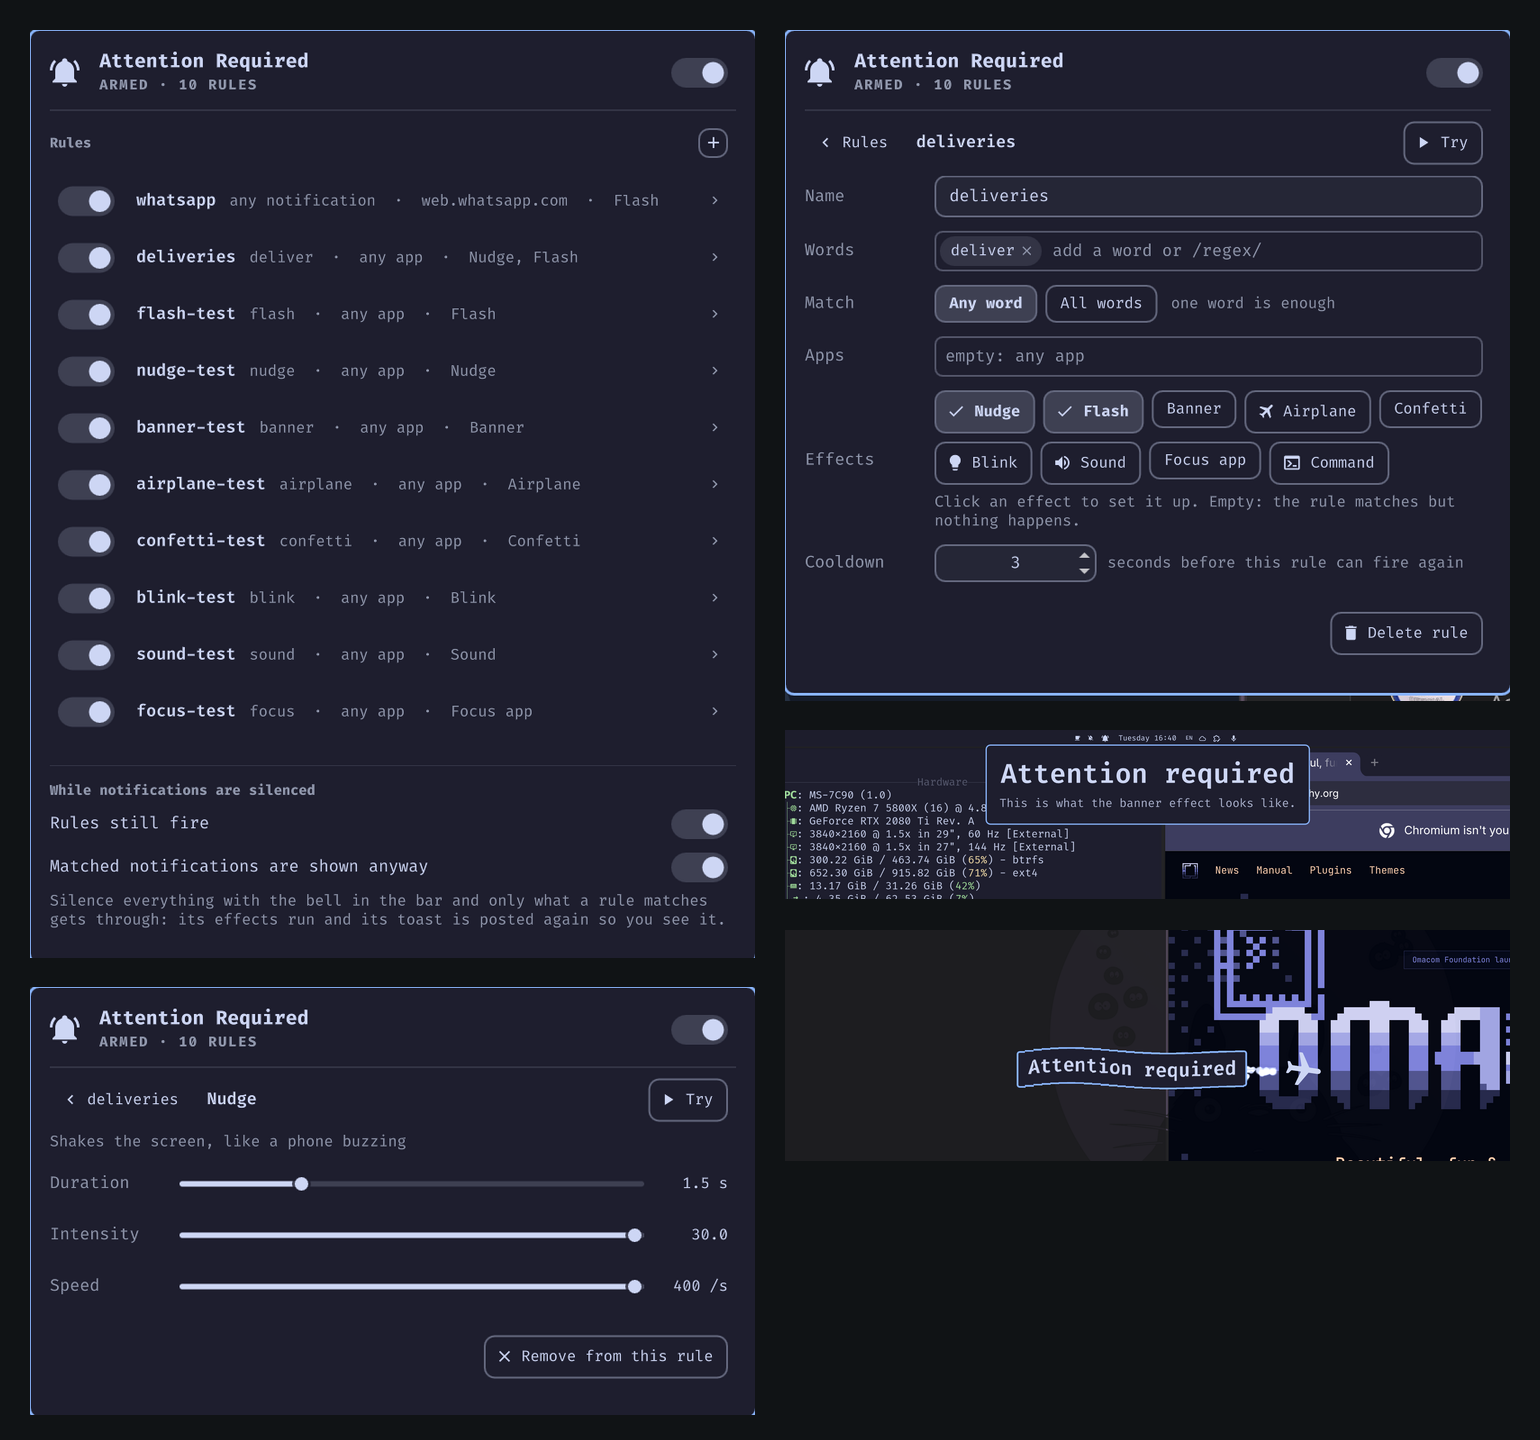
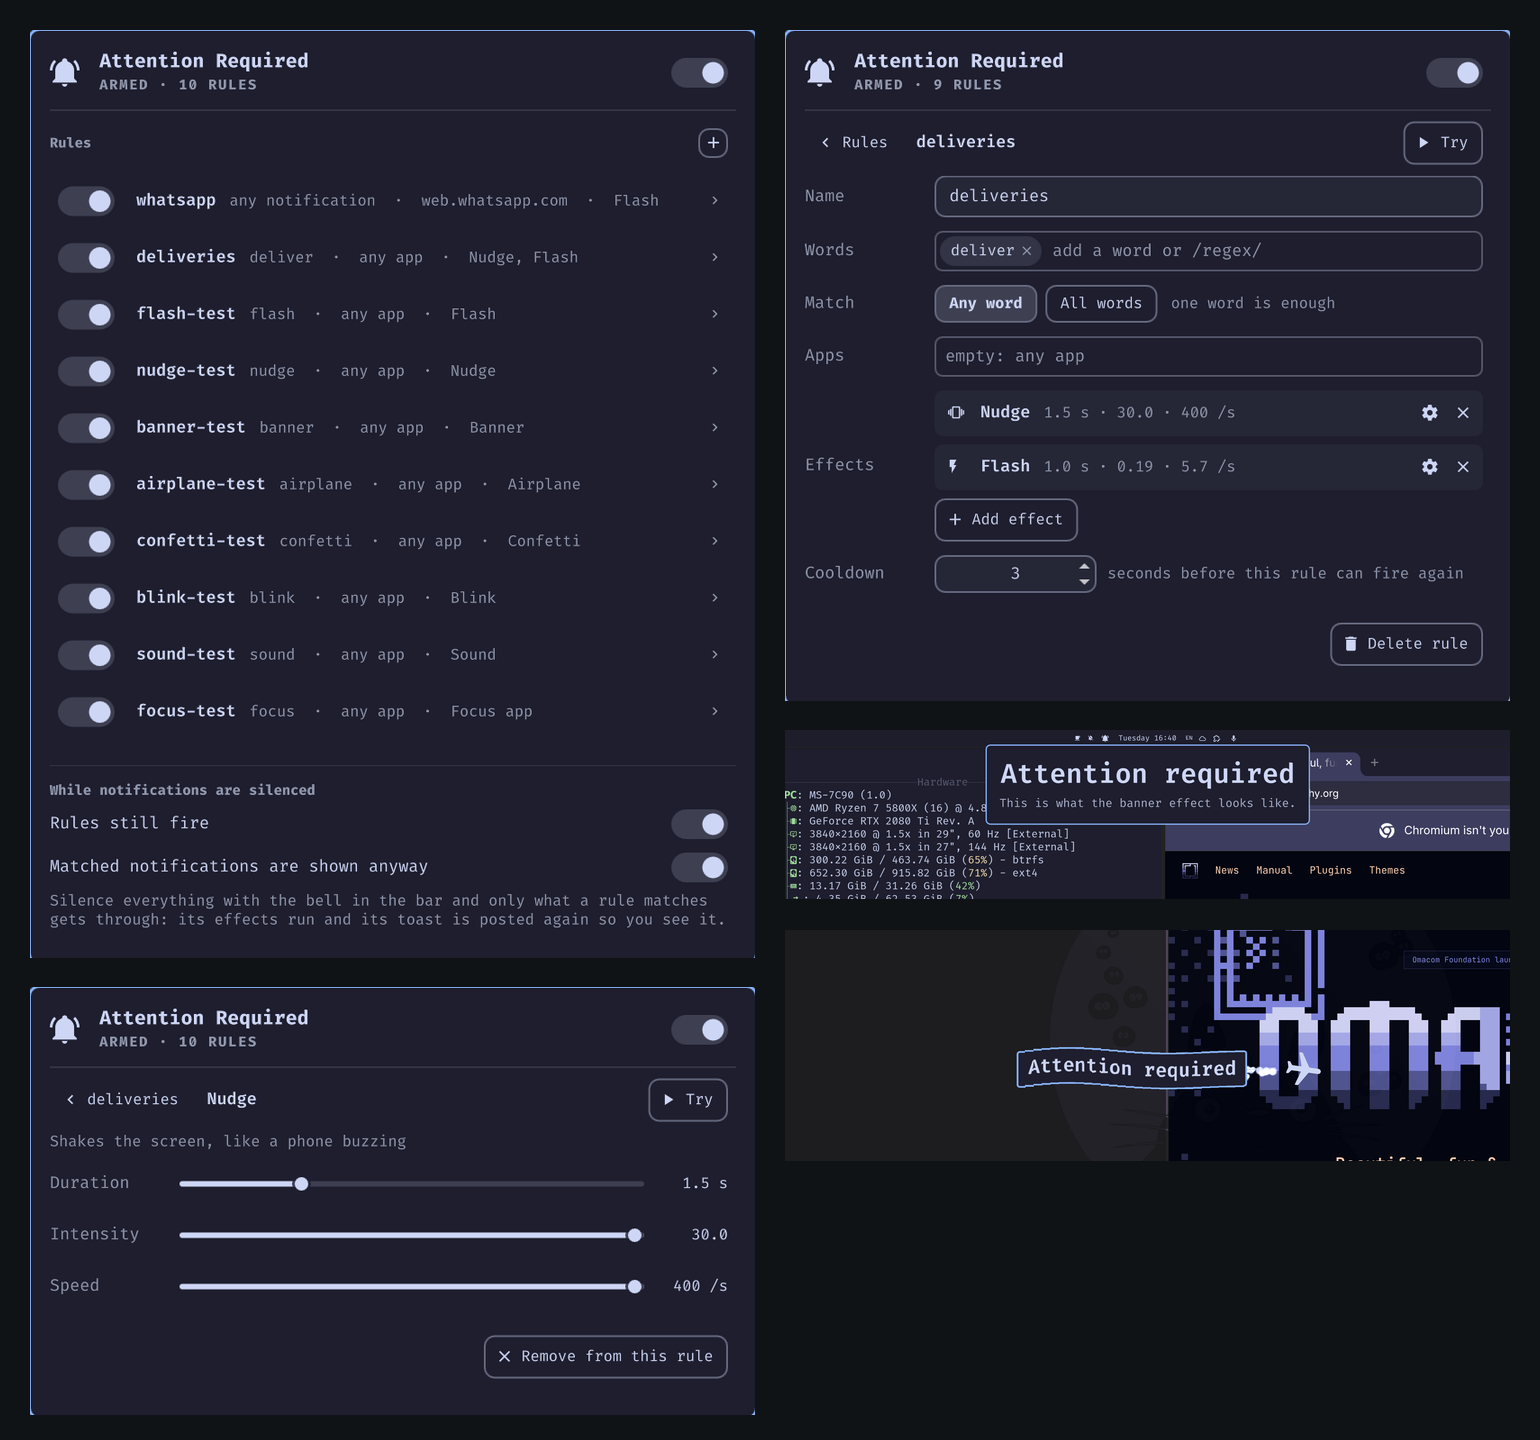
Effects as a list per rule, minimal seed rules, README tidy
Each effect on a rule is a row with its settings at a glance, a button
to open it and one to drop it; an Add effect button unfolds the rest.
A fresh install seeds only the deliveroo rule. Preview updated.

diff --git a/Settings.qml b/Settings.qml
@@ -489,37 +489,70 @@ Panel {
           onCommitted: function(v) { if (root.svc) root.svc.updateRule(root.current, { apps: v }) }
         }
       }
+      // The rule's effects, one row each with its settings at a glance, a
+      // button to open it and one to drop it; then a button that unfolds
+      // the effects not yet on the rule.
       EditorRow {
         label: "Effects"
         Column {
+          id: effectsBox
           width: parent.width - root.trailInset
           spacing: Style.space(6)
+          property bool adding: false
+          readonly property var active: root.effectNames(root.current)
+          readonly property var available: root.catalog.filter(function(e) { return effectsBox.active.indexOf(e.type) === -1 })
+
+          Repeater {
+            model: effectsBox.active
+            delegate: EffectLine {
+              required property string modelData
+              width: effectsBox.width
+              type: modelData
+            }
+          }
+
+          Note {
+            visible: effectsBox.active.length === 0
+            text: "empty: the rule matches but nothing happens yet"
+          }
+
+          Button {
+            text: effectsBox.adding ? "Pick an effect below" : "Add effect"
+            iconText: effectsBox.adding ? "" : ""
+            bordered: true
+            focusable: true
+            enabled: effectsBox.available.length > 0
+            foreground: root.fg
+            fontFamily: root.fontFamily
+            fontSize: Style.font.bodySmall
+            onClicked: effectsBox.adding = !effectsBox.adding
+          }
+
           Flow {
+            visible: effectsBox.adding
             width: parent.width
             spacing: Style.spacing.md
             Repeater {
-              model: root.catalog
+              model: effectsBox.available
               delegate: Button {
                 required property var modelData
-                readonly property bool on: root.effectNames(root.current).indexOf(modelData.type) !== -1
                 text: modelData.label
-                iconText: on ? "" : (modelData.icon || "")
-                selected: on
+                iconText: modelData.icon || ""
                 bordered: true
                 focusable: true
                 foreground: root.fg
                 fontFamily: root.fontFamily
                 fontSize: Style.font.bodySmall
-                tooltipText: modelData.subtitle + (on ? " · click to set up" : " · click to turn on and set up")
+                tooltipText: modelData.subtitle
                 onClicked: {
                   if (!root.svc) return
-                  if (!on) root.svc.addRuleEffect(root.current, modelData.type)
+                  effectsBox.adding = false
+                  root.svc.addRuleEffect(root.current, modelData.type)
                   root.openEffect(modelData.type)
                 }
               }
             }
           }
-          Note { text: root.effectNames(root.current).length ? "Click an effect to set it up. Empty: the rule matches but nothing happens." : "empty: nothing happens yet · click an effect to turn it on and set it up" }
         }
       }
       EditorRow {
@@ -995,6 +1028,93 @@ Panel {
           }
         }
       }
+    }
+  }
+
+  // One effect on the rule: name, its settings in a line, open and remove.
+  component EffectLine: Rectangle {
+    id: line
+    property string type: ""
+    readonly property var def: Catalog.find(type)
+    height: Style.space(34)
+    radius: Style.space(6)
+    color: lineArea.containsMouse ? Util.alpha(root.fg, 0.08) : Util.alpha(root.fg, 0.04)
+
+    function summary() {
+      if (!def || !root.svc) return ""
+      var parts = []
+      for (var i = 0; i < def.rows.length && parts.length < 3; i++) {
+        var r = def.rows[i]
+        parts.push(root.fmt(root.svc.ruleEffectOption(root.current, line.type, r.key, r.fallback), r.step, r.unit))
+      }
+      return parts.join(" · ")
+    }
+
+    MouseArea {
+      id: lineArea
+      anchors.fill: parent
+      hoverEnabled: true
+      cursorShape: Qt.PointingHandCursor
+      onClicked: root.openEffect(line.type)
+    }
+    Text {
+      id: lineIcon
+      anchors.left: parent.left
+      anchors.leftMargin: Style.space(10)
+      anchors.verticalCenter: parent.verticalCenter
+      text: line.def && line.def.icon ? line.def.icon : ""
+      color: root.fg
+      font.family: root.fontFamily
+      font.pixelSize: Style.font.body
+      width: Style.space(18)
+    }
+    Text {
+      id: lineName
+      anchors.left: lineIcon.right
+      anchors.leftMargin: Style.space(6)
+      anchors.verticalCenter: parent.verticalCenter
+      text: line.def ? line.def.label : line.type
+      color: root.fg
+      font.family: root.fontFamily
+      font.pixelSize: Style.font.body
+      font.weight: Font.DemiBold
+    }
+    Text {
+      anchors.left: lineName.right
+      anchors.leftMargin: Style.space(10)
+      anchors.right: openButton.left
+      anchors.rightMargin: Style.space(6)
+      anchors.verticalCenter: parent.verticalCenter
+      text: line.summary()
+      color: root.dim
+      font.family: root.fontFamily
+      font.pixelSize: Style.font.bodySmall
+      elide: Text.ElideRight
+    }
+    PanelActionButton {
+      id: openButton
+      anchors.right: removeButton.left
+      anchors.rightMargin: Style.space(2)
+      anchors.verticalCenter: parent.verticalCenter
+      iconText: ""
+      tooltipText: "Set up"
+      focusable: true
+      foreground: root.fg
+      fontFamily: root.fontFamily
+      onClicked: root.openEffect(line.type)
+    }
+    PanelActionButton {
+      id: removeButton
+      anchors.right: parent.right
+      anchors.rightMargin: Style.space(4)
+      anchors.verticalCenter: parent.verticalCenter
+      iconText: ""
+      tooltipText: "Remove from this rule"
+      focusable: true
+      foreground: root.fg
+      hoverColor: Color.urgent
+      fontFamily: root.fontFamily
+      onClicked: if (root.svc) root.svc.removeRuleEffect(root.current, line.type)
     }
   }
 

diff --git a/README.md b/README.md
@@ -9,8 +9,6 @@ https://github.com/user-attachments/assets/d727da98-3df0-40a8-bbba-cf08dc0aaf6e
 
 ![Attention Required](preview.png)
 
-> Video of the demo: coming soon.
-
 > Tested on **Omarchy 4** (Arch Linux, Hyprland with the Lua config, omarchy-shell).
 
 ## Install
